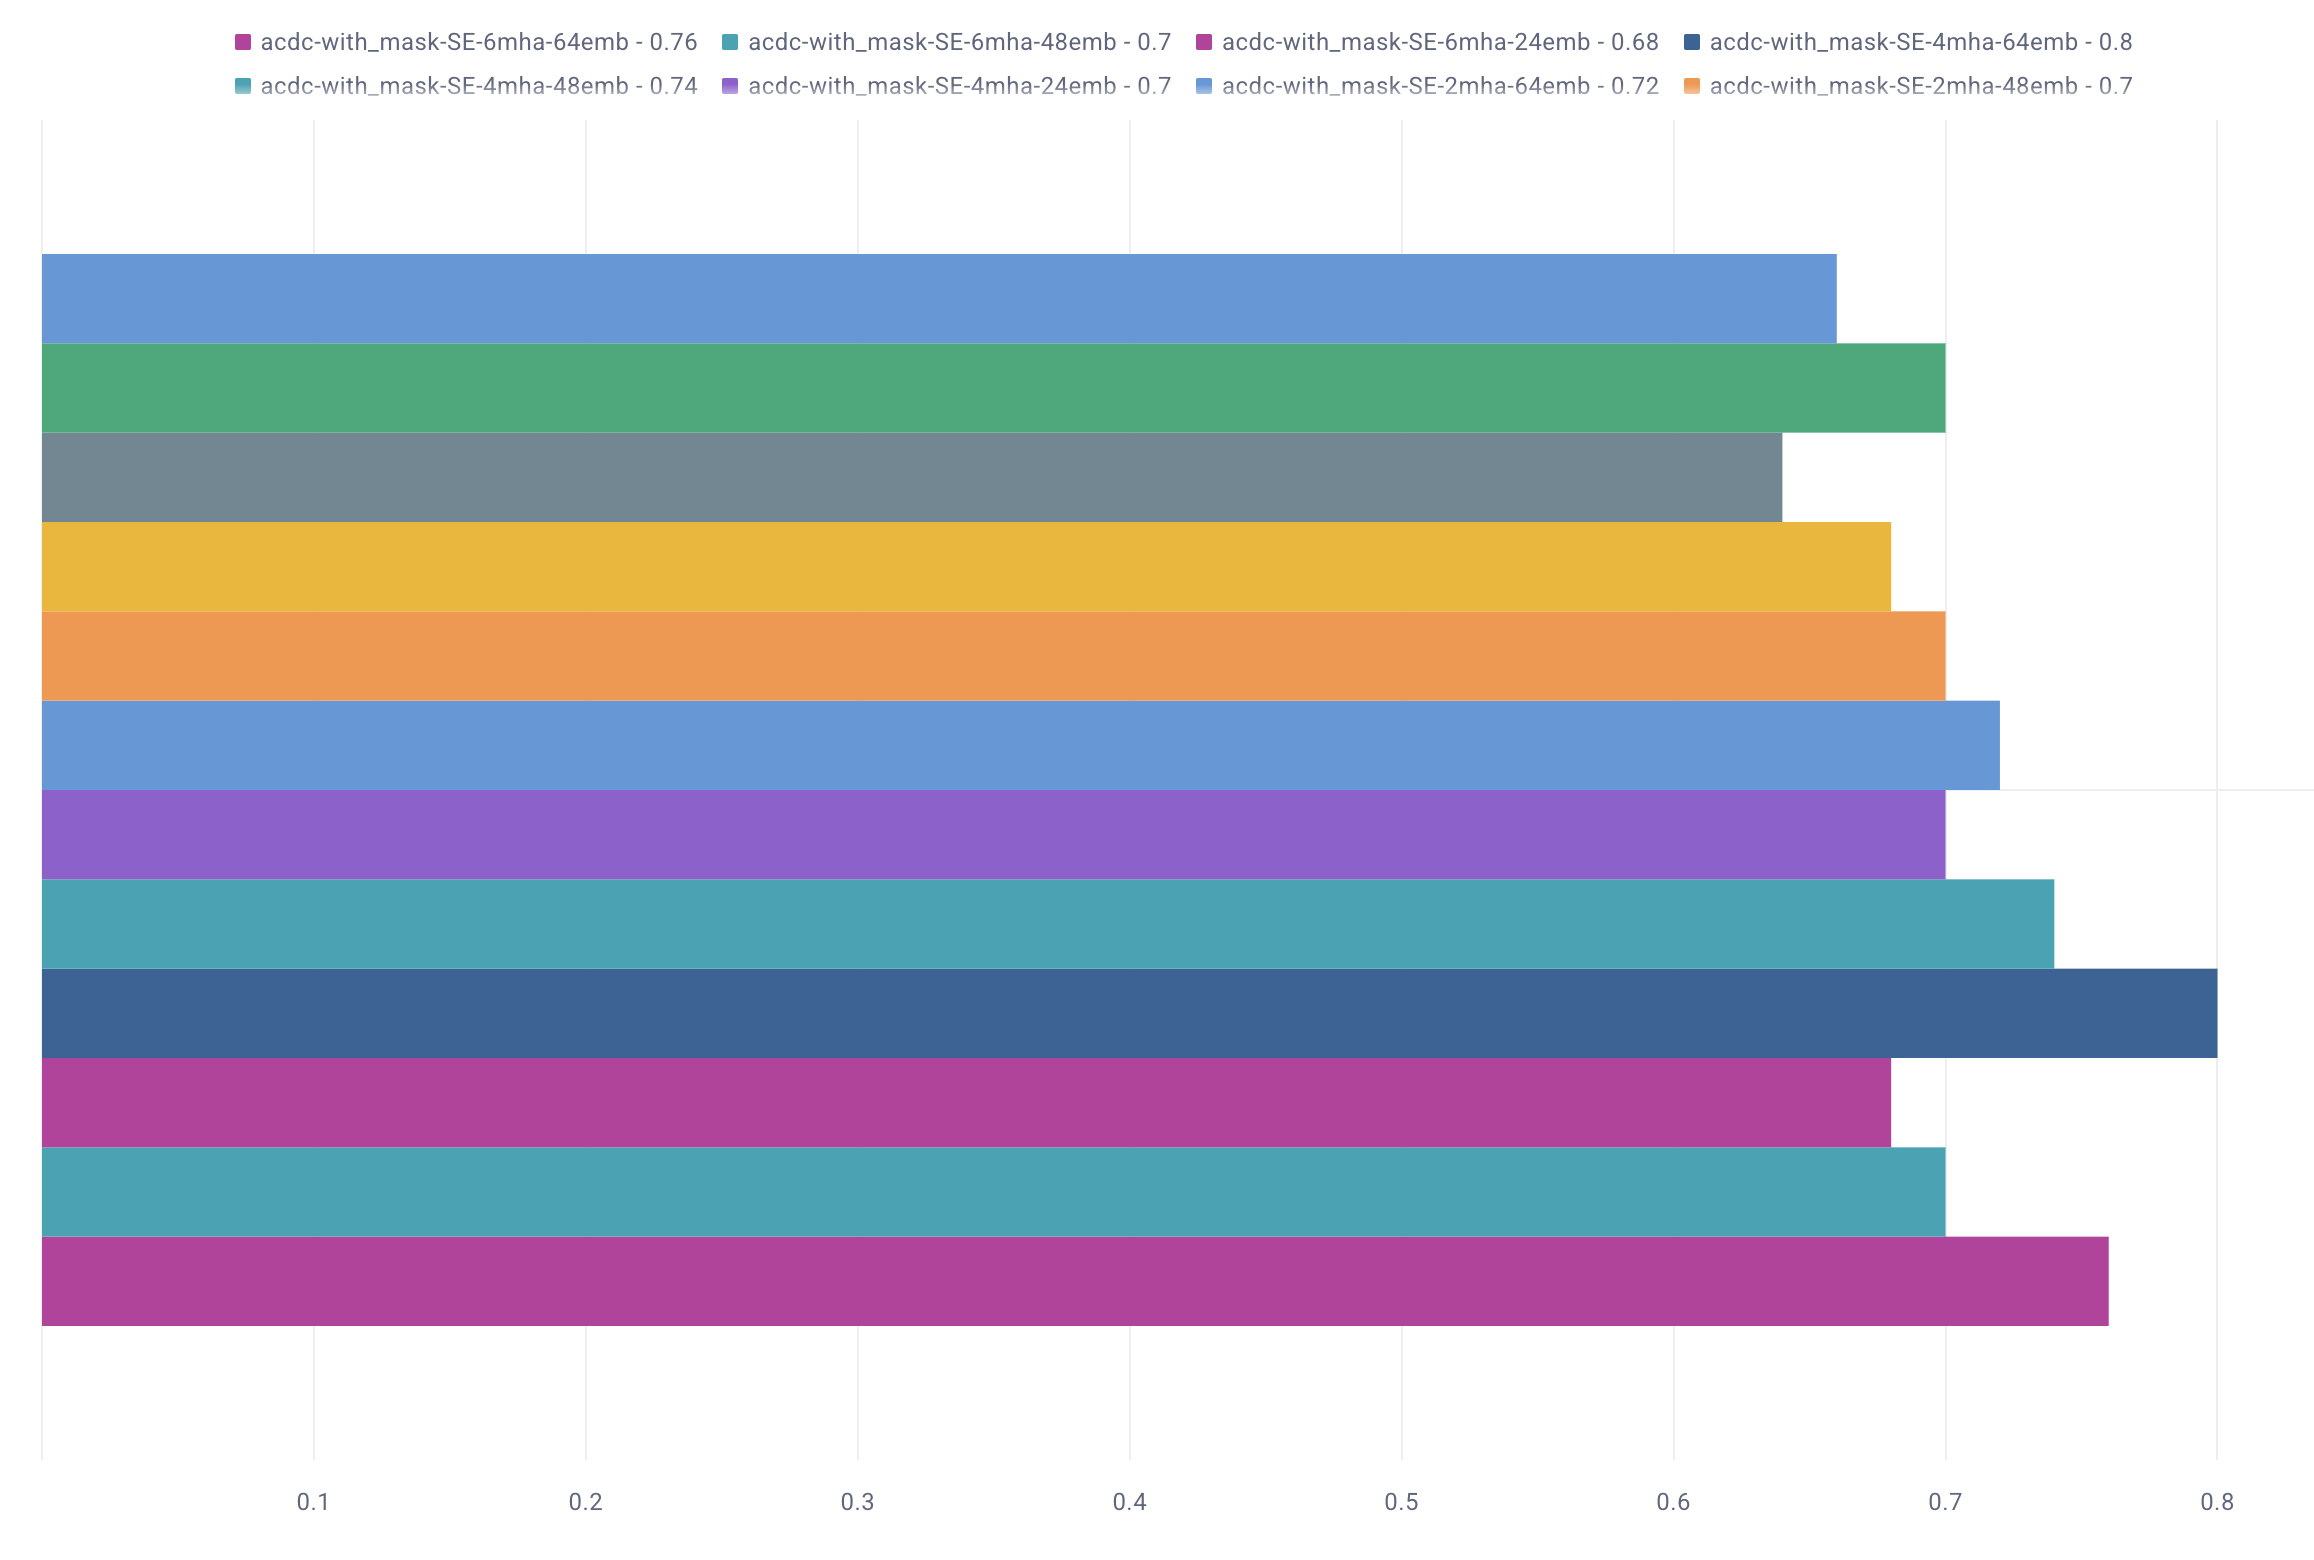
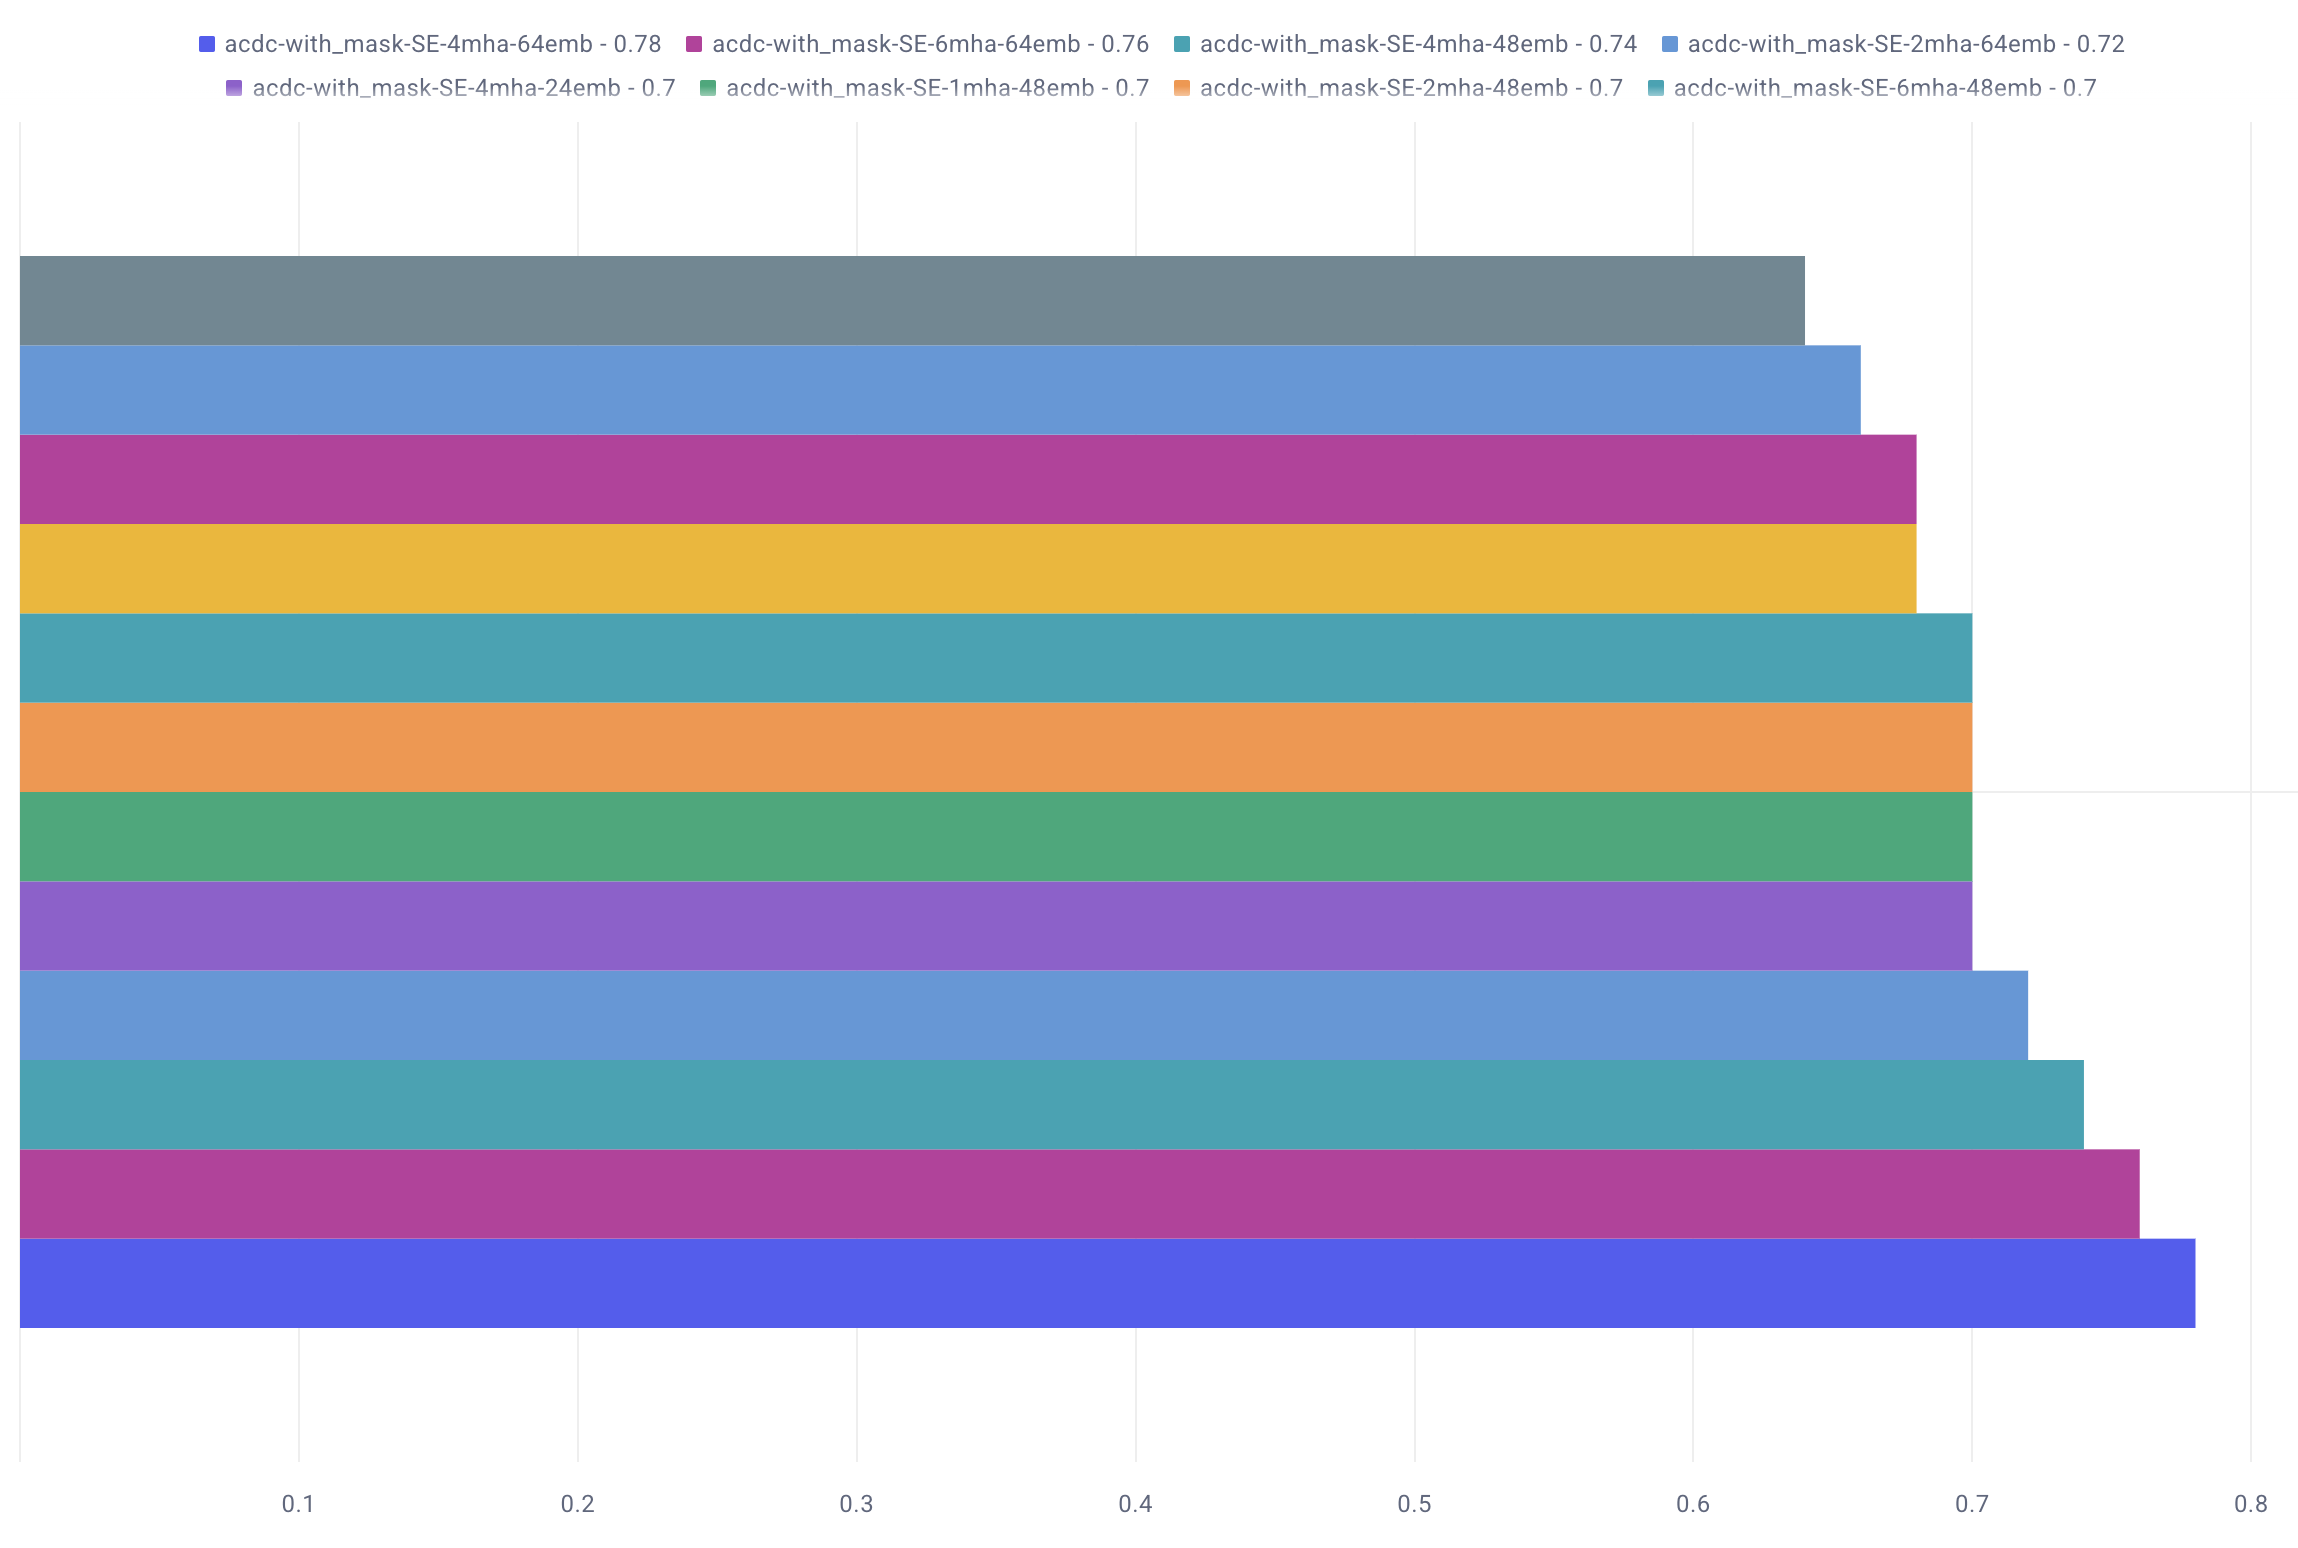
Chap 6 Sunny done

diff --git a/06-resultados_experimentais.tex b/06-resultados_experimentais.tex
@@ -127,12 +127,12 @@ As tabelas que seguem demonstram respectivamente um conjuntos de experimentos na
 
 \begin{table}[htbp]
 \centering
-\caption{Tabela de Métricas - Adaptação do Modelo Original}
+\caption{Métricas ACDC - Adaptação do Modelo Original}
 \begin{tabular}{lcccccc}
 \toprule
 \textbf{Emb} & \textbf{N\_Attn} & \textbf{Acc} & \textbf{Precision} & \textbf{Recall} & \textbf{F1} & \textbf{AUC} \\
 \midrule
-\textcolor{orange}{24} & \textcolor{orange}{1} & \textcolor{orange}{0.58} & \textcolor{orange}{0.47} & \textcolor{orange}{0.45} & \textcolor{orange}{0.46} & \textcolor{orange}{0.55} \\
+\textcolor{orange}{\textbf{24}} & \textcolor{orange}{\textbf{1}} & \textcolor{orange}{\textbf{0.58}} & \textcolor{orange}{\textbf{0.47}} & \textcolor{orange}{\textbf{0.45}} & \textcolor{orange}{\textbf{0.46}} & \textcolor{orange}{\textbf{0.55}} \\
 24 & 2 & 0.58 & 0.48 & 0.60 & 0.53 & 0.58 \\
 24 & 4 & 0.54 & 0.44 & 0.55 & 0.49 & 0.54 \\
 24 & 6 & 0.50 & 0.41 & 0.55 & 0.47 & 0.51 \\
@@ -149,13 +149,13 @@ As tabelas que seguem demonstram respectivamente um conjuntos de experimentos na
 \bottomrule
 \end{tabular}
 \caption*{Fonte: Autor}
-\label{tab:metrics_orig}
+\label{tab:metrics_acdc_orig}
 \end{table}
 
 
 \begin{table}[htbp]
 \centering
-\caption{Tabela de Métricas - Adaptação do Modelo Original Com Máscaras}
+\caption{Métricas ACDC - Adaptação do Modelo Original Com Máscaras}
 \begin{tabular}{lcccccc}
 \toprule
 \textbf{Emb} & \textbf{N\_Attn} & \textbf{Acc} & \textbf{Precision} & \textbf{Recall} & \textbf{F1} & \textbf{AUC} \\
@@ -177,13 +177,13 @@ As tabelas que seguem demonstram respectivamente um conjuntos de experimentos na
 \bottomrule
 \end{tabular}
 \caption*{Fonte: Autor}
-\label{tab:metrics_orig_mask}
+\label{tab:metrics_acdc_orig_mask}
 \end{table}
 
 
 \begin{table}[htbp]
 \centering
-\caption{Tabela de Métricas - Adaptação Adicionando Blocos Conv. e SE}
+\caption{Métricas ACDC - Adaptação Adicionando Blocos Conv. e SE}
 \begin{tabular}{lcccccc}
 \toprule
 \textbf{Emb} & \textbf{N\_Attn} & \textbf{Acc} & \textbf{Precision} & \textbf{Recall} & \textbf{F1} & \textbf{AUC} \\
@@ -200,18 +200,18 @@ As tabelas que seguem demonstram respectivamente um conjuntos de experimentos na
 \hline
 64 & 1 & 0.64 & 0.54 & 0.65 & 0.59 & 0.64 \\
 64 & 2 & 0.72 & 0.64 & 0.70 & 0.67 & 0.72 \\
-\textcolor{blue}{64} & \textcolor{blue}{4} & \textcolor{blue}{0.80} & \textcolor{blue}{0.73} & \textcolor{blue}{0.80} & \textcolor{blue}{0.76} & \textcolor{blue}{0.80} \\
+\textcolor{blue}{\textbf{64}} & \textcolor{blue}{\textbf{4}} & \textcolor{blue}{\textbf{0.78}} & \textcolor{blue}{\textbf{0.76}} & \textcolor{blue}{\textbf{0.65}} & \textcolor{blue}{\textbf{0.70}} & \textcolor{blue}{\textbf{0.76}} \\
 64 & 6 & 0.76 & 0.65 & 0.85 & 0.74 & 0.77 \\
 \bottomrule
 \end{tabular}
 \caption*{Fonte: Autor}
-\label{tab:metrics_se}
+\label{tab:metrics_acdc_se}
 \end{table}
 
 
 \begin{figure}[h!]
     \centering
-    \caption{Visão dos Modelos c/ Bloco SE - \textit{CometML}}
+    \caption{Modelos c/ Bloco SE e sua Acurácia - \textit{CometML}}
     \includegraphics[width=1\textwidth]{figures/fig032.png}
     \caption*{Fonte: Autor}
     \label{fig:fig032}
@@ -221,7 +221,88 @@ As tabelas que seguem demonstram respectivamente um conjuntos de experimentos na
 \subsection{Resultados dos Modelos Adaptados - \textit{SunnyBrook}}
 \label{subsec:resultados_sunny_adaptado}
 
-Os experimentos no conjunto de dados \textit{SunnyBrook} foram praticamente igualis aos aplicados ao conjunto de dados \gls{ACDC}. Houver uma etapa extra no pré-processamento, para gerar as máscaras das imagens de RM precisa-se interpolar os valores de um arquivo de texto que vem anexo com os dados. A máscara também é composta apenas pela região de interesse contanto apenas valores 0 e 1.
+Os experimentos no conjunto de dados \textit{SunnyBrook} foram praticamente iguais aos aplicados ao conjunto de dados \gls{ACDC}. No conjunto de dados \textit{SunnyBrook}, houve uma etapa extra de pré-processamento para gerar as máscaras. Foi necessário interpolar os valores de um arquivo de texto que vem anexo com os dados. A máscara também é composta apenas pela região de interesse contanto apenas valores 0 e 1. Esta é a única característica específica deste conjunto de dados que diverge do \gls{ACDC}.
+
+Como o \textit{SunnyBrook} tem poucos dados, apenas $45$, sendo $30$ para treino e $15$ para teste. Removendo as classes de infarto (IC e IC-I), sobram $21$ registros sedo $13$ para treino e $8$ para teste. Foi considerado que um treinamento neste conjunto de dados não seria benéfico e foi feito apenas a inferência utilizando todos os $21$ registros, sendo $12$ casos de \gls{CMH} e $9$ casos em condições normais. Os modelos utilizados são os previamente treinados no \gls{ACDC}. Os resultados são conferidos nas tabelas \ref{tab:metrics_sunny_orig}, \ref{tab:metrics_sunny_orig_mask} e \ref{tab:metrics_sunny_se}. O modelo base consta em laranja e o melhor resultado consta em azul, indo de encontro aos resultados obtidos no \gls{ACDC}. É possível notar que o conjunto de dados, por ser pequeno, compromete a classificação pois mesmo que o modelo possua um pequeno aprimoramento de uma arquitetura para outra, pode não ser suficiente para converter uma nova classificação, o que da a aparência de que dados a alguns resultados empatados, eles possuem a mesma assertividade o que não é a realidade.
+
+
+\begin{table}[htbp]
+\centering
+\caption{Métricas SunnyBrook - Adaptação do Modelo Original}
+\begin{tabular}{ccccccc}
+\toprule
+\textbf{Emb} & \textbf{N\_Attn} & \textbf{Acc} & \textbf{Precision} & \textbf{Recall} & \textbf{F1} & \textbf{AUC} \\
+\midrule
+\textcolor{orange}{\textbf{24}} & \textcolor{orange}{\textbf{1}} & \textcolor{orange}{\textbf{0.48}} & \textcolor{orange}{\textbf{0.54}} & \textcolor{orange}{\textbf{0.58}} & \textcolor{orange}{\textbf{0.56}} & \textcolor{orange}{\textbf{0.46}} \\
+24 & 2 & 0.52 & 0.60 & 0.50 & 0.55 & 0.53 \\
+24 & 4 & 0.52 & 0.60 & 0.50 & 0.55 & 0.53 \\
+24 & 6 & 0.52 & 0.57 & 0.67 & 0.62 & 0.50 \\
+48 & 1 & 0.48 & 0.56 & 0.42 & 0.48 & 0.49 \\
+48 & 2 & 0.48 & 0.55 & 0.50 & 0.52 & 0.47 \\
+48 & 4 & 0.52 & 0.58 & 0.58 & 0.58 & 0.51 \\
+48 & 6 & 0.52 & 0.60 & 0.50 & 0.55 & 0.53 \\
+64 & 1 & 0.52 & 0.57 & 0.67 & 0.62 & 0.50 \\
+64 & 2 & 0.57 & 0.64 & 0.58 & 0.61 & 0.57 \\
+64 & 4 & 0.57 & 0.67 & 0.50 & 0.57 & 0.58 \\
+64 & 6 & 0.52 & 0.57 & 0.67 & 0.62 & 0.50 \\
+\bottomrule
+\end{tabular}
+\caption*{Fonte: Autor}
+\label{tab:metrics_sunny_orig}
+\end{table}
+
+
+
+\begin{table}[htbp]
+\centering
+\caption{Métricas SunnyBrook - Adaptação do Modelo Original Com Máscaras}
+\begin{tabular}{ccccccc}
+\toprule
+\textbf{Emb} & \textbf{N\_Attn} & \textbf{Acc} & \textbf{Precision} & \textbf{Recall} & \textbf{F1} & \textbf{AUC} \\
+\midrule
+24 & 1 & 0.48 & 0.54 & 0.58 & 0.56 & 0.46 \\
+24 & 2 & 0.52 & 0.62 & 0.42 & 0.50 & 0.54 \\
+24 & 4 & 0.57 & 0.67 & 0.50 & 0.57 & 0.58 \\
+24 & 6 & 0.52 & 0.58 & 0.58 & 0.58 & 0.51 \\
+48 & 1 & 0.52 & 0.58 & 0.58 & 0.58 & 0.51 \\
+48 & 2 & 0.57 & 0.64 & 0.58 & 0.61 & 0.57 \\
+48 & 4 & 0.62 & 0.67 & 0.67 & 0.67 & 0.61 \\
+48 & 6 & 0.52 & 0.58 & 0.58 & 0.58 & 0.51 \\
+64 & 1 & 0.57 & 0.62 & 0.67 & 0.64 & 0.56 \\
+64 & 2 & 0.62 & 0.67 & 0.67 & 0.67 & 0.61 \\
+64 & 4 & 0.71 & 0.80 & 0.67 & 0.73 & 0.72 \\
+64 & 6 & 0.62 & 0.64 & 0.75 & 0.69 & 0.60 \\
+\bottomrule
+\end{tabular}
+\caption*{Fonte: Autor}
+\label{tab:metrics_sunny_orig_mask}
+\end{table}
+
+
+\begin{table}[htbp]
+\centering
+\caption{Métricas SunnyBrook - Adaptação Adicionando Blocos Conv. e SE}
+\begin{tabular}{ccccccc}
+\toprule
+\textbf{Emb} & \textbf{N\_Attn} & \textbf{Acc} & \textbf{Precision} & \textbf{Recall} & \textbf{F1} & \textbf{AUC} \\
+\midrule
+24 & 1 & 0.67 & 0.73 & 0.67 & 0.70 & 0.67 \\
+24 & 2 & 0.71 & 0.80 & 0.67 & 0.73 & 0.72 \\
+24 & 4 & 0.76 & 0.77 & 0.83 & 0.80 & 0.75 \\
+24 & 6 & 0.71 & 0.75 & 0.75 & 0.75 & 0.71 \\
+48 & 1 & 0.71 & 0.80 & 0.67 & 0.73 & 0.72 \\
+48 & 2 & 0.76 & 0.82 & 0.75 & 0.78 & 0.76 \\
+48 & 4 & 0.76 & 0.73 & 0.92 & 0.81 & 0.74 \\
+48 & 6 & 0.76 & 0.89 & 0.67 & 0.76 & 0.78 \\
+64 & 1 & 0.76 & 0.82 & 0.75 & 0.78 & 0.76 \\
+64 & 2 & 0.81 & 0.90 & 0.75 & 0.82 & 0.82 \\
+\textcolor{blue}{\textbf{64}} & \textcolor{blue}{\textbf{4}} & \textcolor{blue}{\textbf{0.86}} & \textcolor{blue}{\textbf{0.85}} & \textcolor{blue}{\textbf{0.92}} & \textcolor{blue}{\textbf{0.88}} & \textcolor{blue}{\textbf{0.85}} \\
+64 & 6 & 0.81 & 0.90 & 0.75 & 0.82 & 0.82 \\
+\bottomrule
+\end{tabular}
+\caption*{Fonte: Autor}
+\label{tab:metrics_sunny_se}
+\end{table}
 
 %--------------------------------------------------------
 \section{Considerações Finais do Capítulo} 
